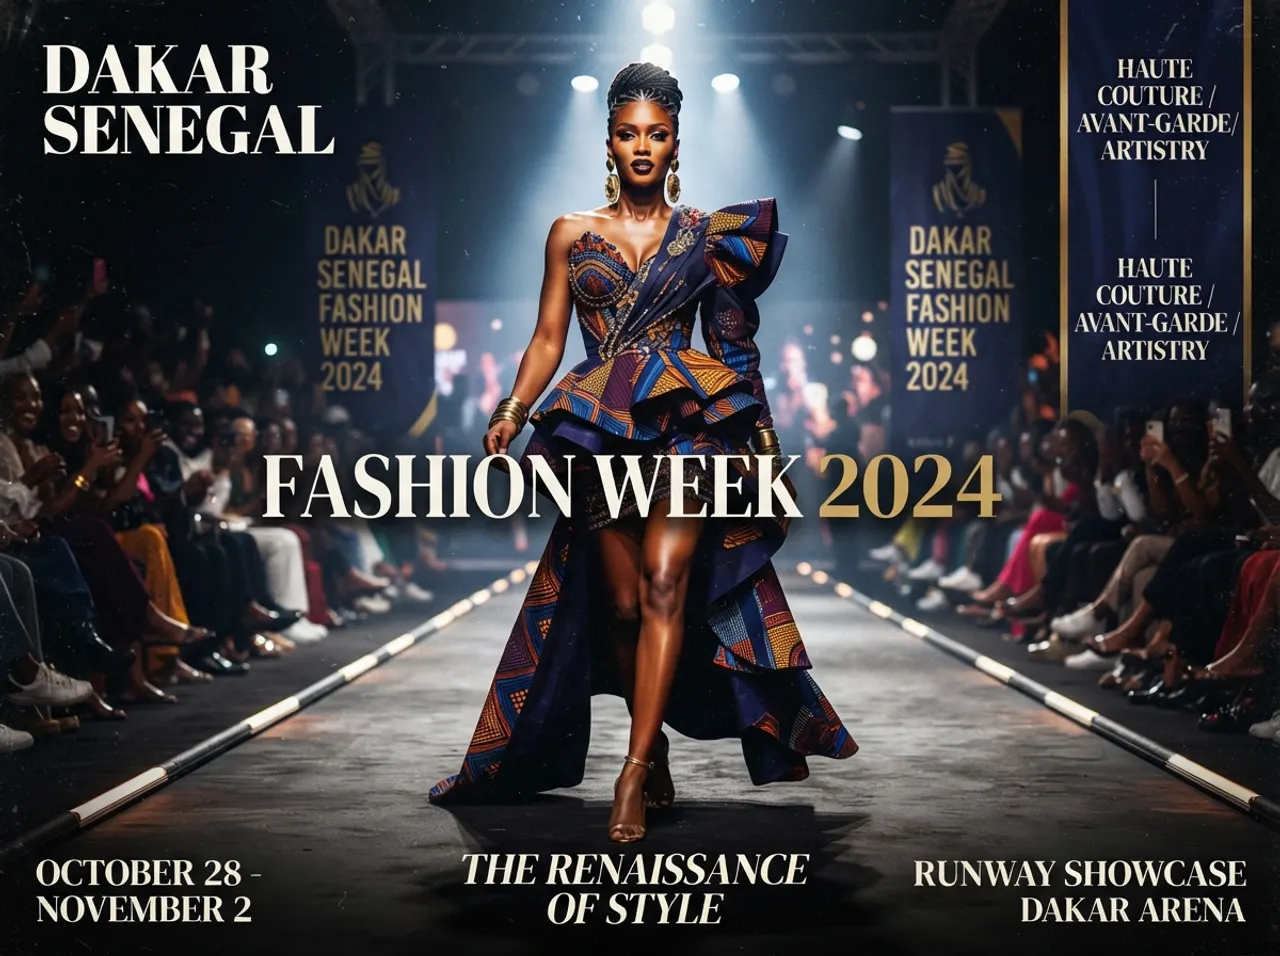
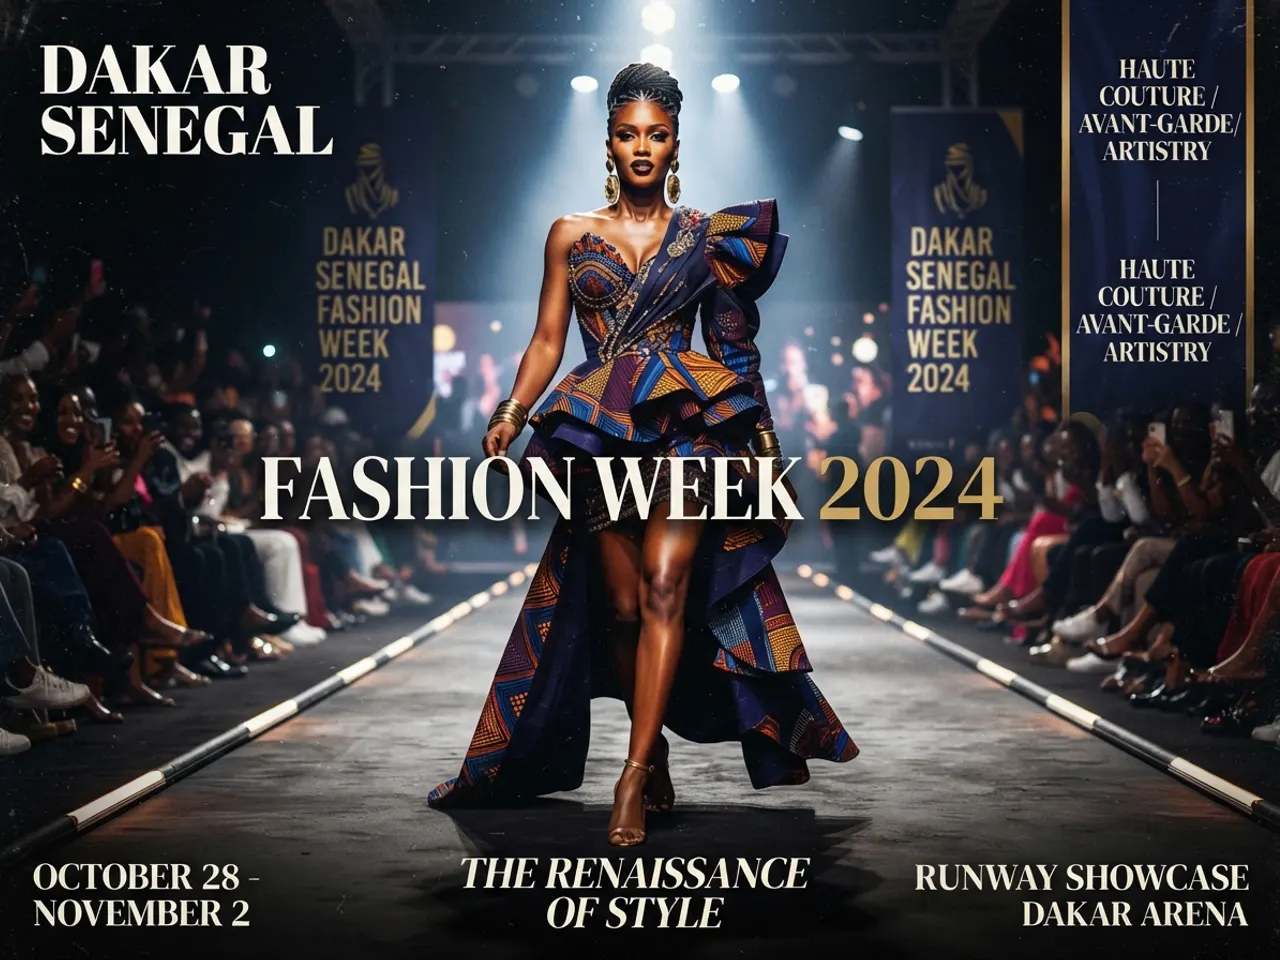
feat: illustrer de photos libres les trois evenements sans affiche
Popenguine, Saint-Louis Jazz et Dakar Jazz tombaient sur l affiche generee.
Trois photographies Pexels les remplacent — licence libre, usage commercial,
provenance notee dans photos/SOURCES.md.

Le script de conversion lit maintenant deux dossiers sources et recadre en
4:3 : les six affiches partagent enfin le meme format.

diff --git a/src/data/events.ts b/src/data/events.ts
@@ -1,9 +1,15 @@
+import dakarJazzLarge from '@/assets/posters/poster-dakar-jazz-1280.webp'
+import dakarJazzSmall from '@/assets/posters/poster-dakar-jazz-640.webp'
 import fashionWeekLarge from '@/assets/posters/poster-fashion-week-dakar-1280.webp'
 import fashionWeekSmall from '@/assets/posters/poster-fashion-week-dakar-640.webp'
 import jazzLarge from '@/assets/posters/poster-jazz-night-1280.webp'
 import jazzSmall from '@/assets/posters/poster-jazz-night-640.webp'
 import poolBrunchLarge from '@/assets/posters/poster-pool-party-saly-1280.webp'
 import poolBrunchSmall from '@/assets/posters/poster-pool-party-saly-640.webp'
+import popenguineLarge from '@/assets/posters/poster-popenguine-1280.webp'
+import popenguineSmall from '@/assets/posters/poster-popenguine-640.webp'
+import saintLouisLarge from '@/assets/posters/poster-saint-louis-jazz-1280.webp'
+import saintLouisSmall from '@/assets/posters/poster-saint-louis-jazz-640.webp'
 
 import type { FodiumEvent } from './types'
 
@@ -103,7 +109,11 @@ export const events: FodiumEvent[] = [
       "Deux scènes face à l'océan, entre falaises et sable. Programmation acoustique l'après-midi, sets électroniques au coucher du soleil, et retour en navette jusqu'à Dakar dans la nuit.",
     tags: ['Plage', 'Acoustique', 'Sunset'],
     basePrice: 10200,
-    poster: null,
+    poster: {
+      small: popenguineSmall,
+      large: popenguineLarge,
+      alt: "Foule dansant sur la plage face à l'océan au coucher du soleil",
+    },
     organizer: { name: 'Popenguine Collective', verified: false, eventCount: 3 },
     shuttle: {
       operator: 'Fodium Express',
@@ -130,7 +140,11 @@ export const events: FodiumEvent[] = [
       "Le plus ancien festival de jazz d'Afrique de l'Ouest ouvre une soirée hors saison sur les quais. Aller-retour depuis Dakar assuré dans la nuit — 260 km, sans avoir à conduire.",
     tags: ['Jazz', 'Interurbain', 'Nuit blanche'],
     basePrice: 18000,
-    poster: null,
+    poster: {
+      small: saintLouisSmall,
+      large: saintLouisLarge,
+      alt: 'Saxophoniste en concert, éclairé sur une scène sombre',
+    },
     organizer: { name: 'Saint-Louis Jazz Association', verified: true, eventCount: 42 },
     shuttle: {
       operator: 'Fodium Express',
@@ -157,7 +171,11 @@ export const events: FodiumEvent[] = [
       "L'édition 2026 du Dakar Jazz Festival s'est tenue sur trois soirées à l'Institut français.",
     tags: ['Jazz', 'Archive'],
     basePrice: 12000,
-    poster: null,
+    poster: {
+      small: dakarJazzSmall,
+      large: dakarJazzLarge,
+      alt: "Section de cuivres d'un orchestre de jazz devant un rideau rouge",
+    },
     organizer: { name: 'Institut français de Dakar', verified: true, eventCount: 31 },
     shuttle: null,
     featured: false,

diff --git a/photos/SOURCES.md b/photos/SOURCES.md
@@ -1,0 +1,18 @@
+# Photographies d'événements
+
+Originaux des affiches pour les fiches que les maquettes Stitch ne couvraient pas.
+`npm run posters` les recadre en 4:3 et les convertit en WebP 640 / 1280 dans
+`src/assets/posters/` — seuls ces WebP sont servis par l'application.
+
+| Fichier | Événement | Source |
+|---|---|---|
+| `poster-popenguine.jpg` | Festival Plage de Popenguine | [Pexels 11653917](https://www.pexels.com/photo/11653917/) |
+| `poster-saint-louis-jazz.jpg` | Saint-Louis Jazz — Édition spéciale | [Pexels 26952977](https://www.pexels.com/photo/26952977/) |
+| `poster-dakar-jazz.jpg` | Dakar Jazz Festival | [Pexels 12448207](https://www.pexels.com/photo/12448207/) |
+
+**Licence Pexels** : usage gratuit, y compris commercial, sans attribution
+obligatoire. Le crédit est donné ici par correction, pas par obligation.
+
+Les trois autres affiches (`pool-party-saly`, `fashion-week-dakar`,
+`jazz-night`) viennent des maquettes Stitch et sont **générées par IA** : ce
+sont des visuels de démonstration, à signaler comme tels dans le README.
